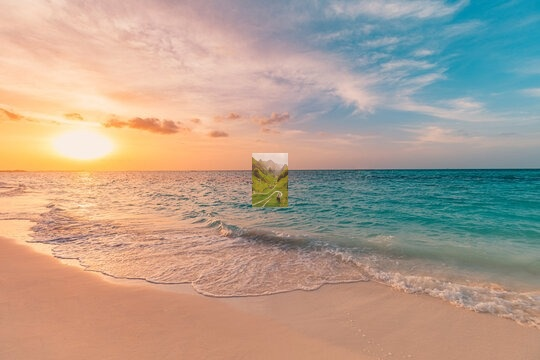
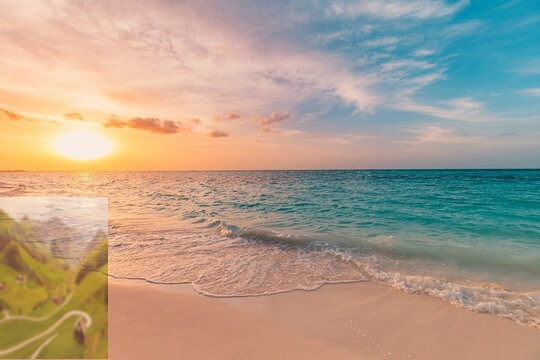
reimplemented remove_watermark to manually remove a provided watermark

Changed region(s): [[0.0, 0.55, 0.2074, 1.0], [0.4444, 0.4278, 0.5333, 0.5806]]

diff --git a/remove_watermark.py b/remove_watermark.py
@@ -1,23 +1,52 @@
 import cv2
 import numpy as np
 
-def remove_watermark(image, watermark):
-    # Convert the image to grayscale
-    gray = cv2.cvtColor(image, cv2.COLOR_BGR2GRAY)
+def remove_watermark(image, watermark, scale, transparency, blur, x_pos, y_pos):
 
-    # Use adaptive thresholding to detect the watermark
-    _, thresholded = cv2.threshold(gray, 0, 255, cv2.THRESH_BINARY + cv2.THRESH_OTSU)
+    # height and width of the image 
+    h_img, w_img, _ = image.shape 
 
-    # Find contours in the thresholded image
-    contours, _ = cv2.findContours(thresholded, cv2.RETR_EXTERNAL, cv2.CHAIN_APPROX_SIMPLE)
+    # resize the watermark
+    resized_watermark = cv2.resize(watermark, (int(h_img * scale), int(w_img * scale)), interpolation=cv2.INTER_AREA)
 
-    # Create a mask to cover the watermark region
-    mask = np.zeros_like(image, dtype=np.uint8)
+    # blur the watermark if necessary
+    if blur:
+        resized_watermark = cv2.GaussianBlur(resized_watermark, (5,5), 0)
 
-    # Draw contours on the mask
-    cv2.drawContours(mask, contours, -1, (255, 255, 255), thickness=cv2.FILLED)
+    # calculating dimensions 
+    # height and width of the logo 
+    h_logo, w_logo, _ = resized_watermark.shape 
+    
+    # calculating coordinates of center 
+    center_y = int(h_img/2) 
+    center_x = int(w_img/2) 
+    
+    # calculating from top, bottom, right and left 
+    top_y = center_y - int(h_logo/2) 
+    left_x = center_x - int(w_logo/2) 
+    bottom_y = top_y + h_logo 
+    right_x = left_x + w_logo 
 
-    # Inpainting to remove the watermark in the specific region
-    result = cv2.inpaint(image, mask[:, :, 0], 3, cv2.INPAINT_TELEA)
+    # change bounds if center is not selected
+    LEFT, RIGHT, TOP, BOTTOM = 1,3,1,3
+    if x_pos == LEFT:
+        left_x = 0
+        right_x = left_x + w_logo
+    elif x_pos == RIGHT:
+        right_x = w_img - 1
+        left_x = right_x - w_logo
+    
+    if y_pos == TOP:
+        top_y = 0
+        right_x = top_y + h_logo
+    elif y_pos == BOTTOM:
+        bottom_y = h_img - 1
+        top_y = bottom_y - h_logo
 
-    return result
+    # removing watermark from the image 
+    destination = image[top_y:bottom_y, left_x:right_x] 
+    watermark_removed_area = (destination - resized_watermark * (1 - transparency)) / transparency
+
+    global_result = np.copy(image)
+    global_result[top_y:bottom_y, left_x:right_x] = watermark_removed_area
+    return global_result

diff --git a/main.py b/main.py
@@ -12,18 +12,18 @@ def main():
     image = cv2.imread(image_path)
     watermark = cv2.imread(watermark_path)
 
-    if choice == 1:
-        scale = get_scale()
-        transparency = get_transparency()
-        blur = get_blur()
-        y_pos = get_pos_top_to_bottom()
-        x_pos = get_pos_left_to_right()
+    scale = get_scale()
+    transparency = get_transparency()
+    blur = get_blur()
+    y_pos = get_pos_top_to_bottom()
+    x_pos = get_pos_left_to_right()
 
+    if choice == 1:
         watermarked_image = watermark_image(image, watermark, scale=scale, transparency=transparency, blur=blur, x_pos=x_pos, y_pos=y_pos)
         cv2.imwrite('watermarked_image.jpg', watermarked_image)
 
     elif choice == 2:
-        unwatermarked_image = remove_watermark(image, watermark)
+        unwatermarked_image = remove_watermark(image, watermark, scale=scale, transparency=transparency, blur=blur, x_pos=x_pos, y_pos=y_pos)
         cv2.imwrite('image_stripped_of_watermark.jpg', unwatermarked_image)
 
 # Call the main function

diff --git a/input_handling.py b/input_handling.py
@@ -37,11 +37,11 @@ def get_scale() -> float:
     scale_str = ''
     scale = 0.0
     while scale_str == '':
-        scale_str = input('Please enter the desired scale of the watermark compared to the image (0 - 0.8): ')
+        scale_str = input('Please enter the desired scale of the watermark compared to the image (0.1 - 0.9): ')
         try:
             scale = float(scale_str)
-            if scale > 0.8 or scale < 0.0:
-                print(f'Sorry, {scale_str} is not in the range (0 - 0.8).\n')
+            if scale > 0.9 or scale < 0.1:
+                print(f'Sorry, {scale_str} is not in the range (0.1 - 0.9).\n')
                 scale_str = ''
                 continue
         except:
